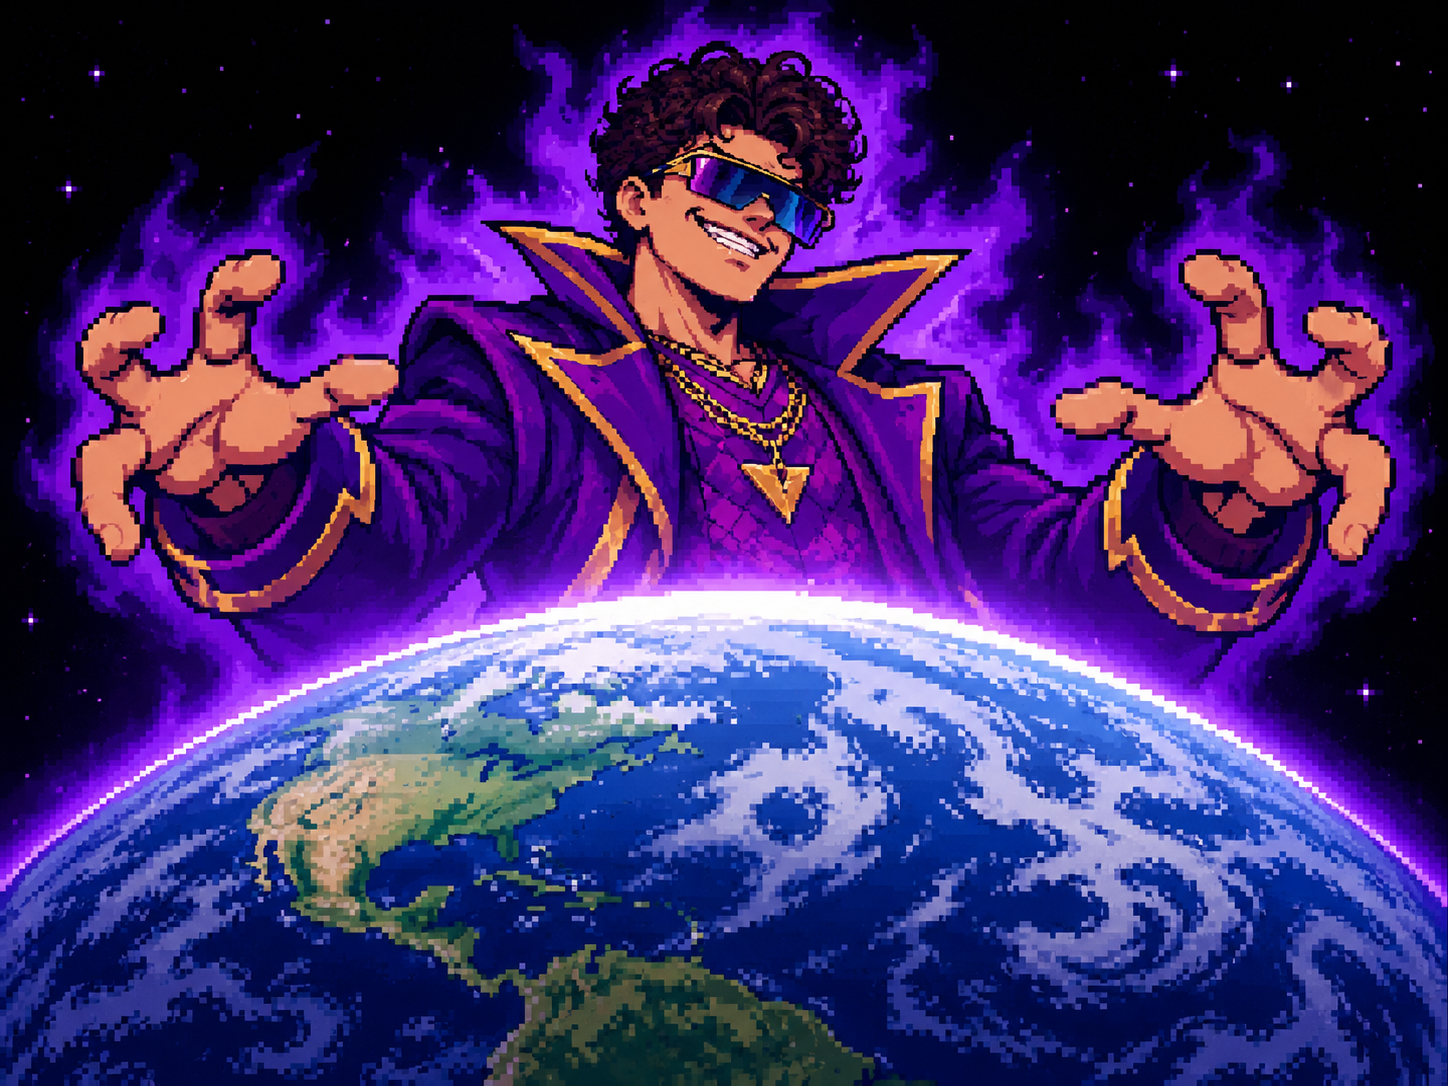
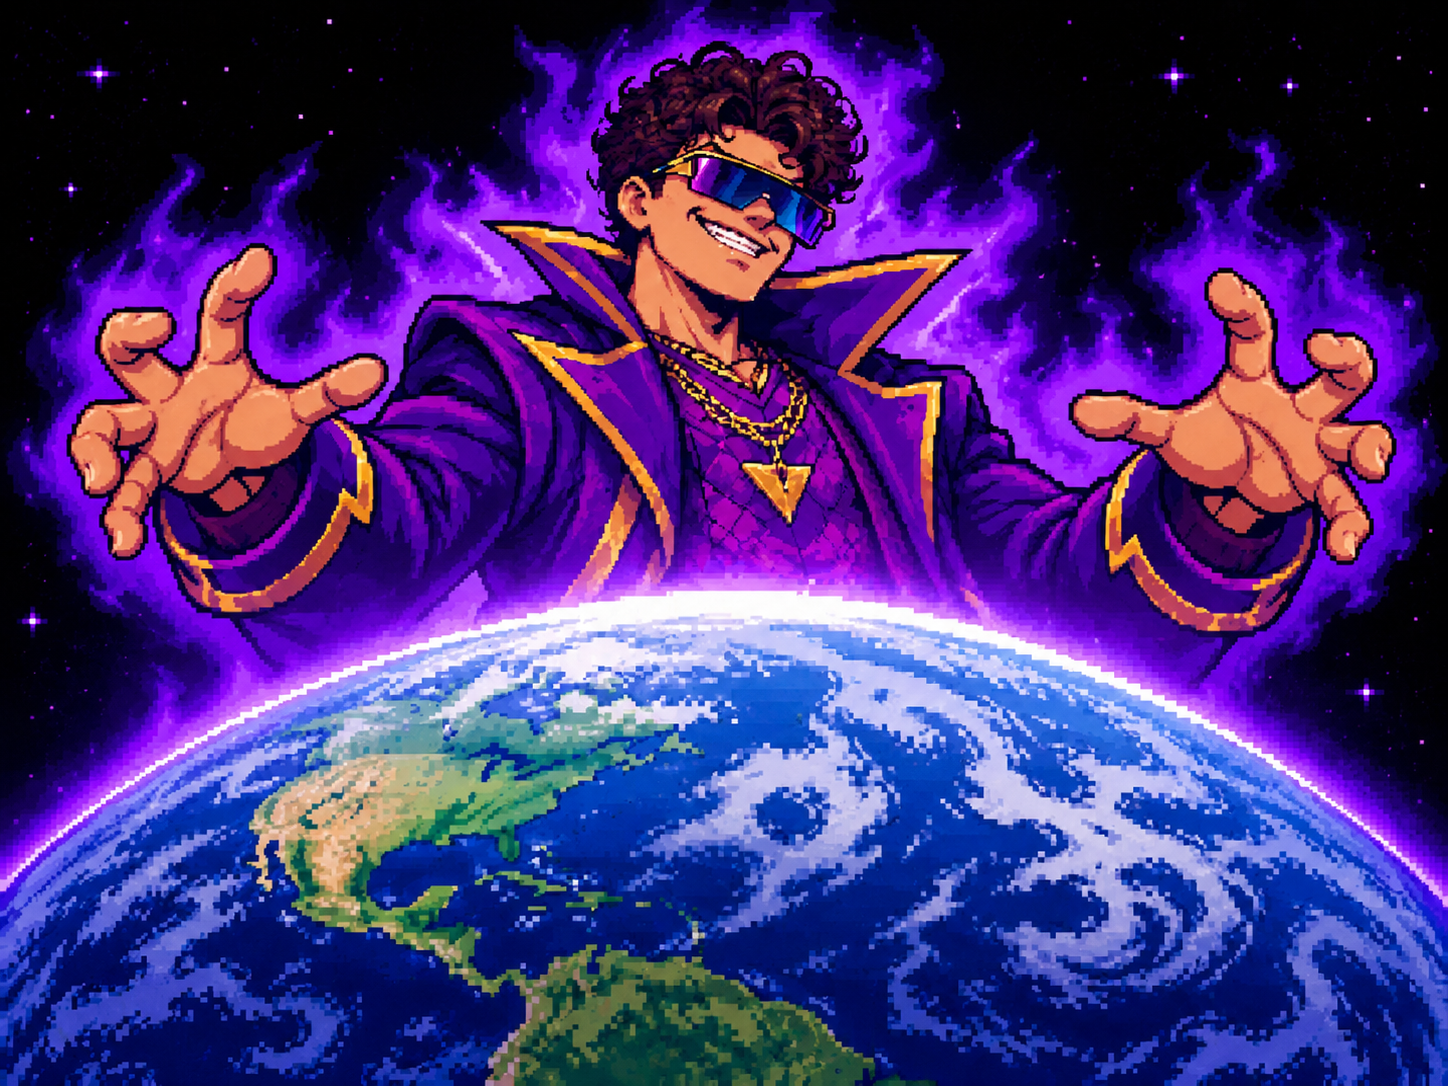
0.10

diff --git a/js/config.js b/js/config.js
@@ -152,9 +152,14 @@ const CONFIG = {
     velocidadeTexto: 45,    // letras por segundo nas cutscenes
     cutsceneInicial: [
       {
-        imagem: 'assets/ui/cena-vitor-terra.png', foco: [0.5, 0.42], zoom: [1.0, 1.08],
+        imagem: 'assets/ui/cena-terra.png', foco: [0.5, 0.42], zoom: [1.0, 1.08],
         falas: [
           { texto: 'Em um mundo onde todos são radicais, todos viviam em paz, até que...' },
+        ]
+      },
+      {
+        imagem: 'assets/ui/cena-vitor-terra.png', foco: [0.5, 0.42], zoom: [1.0, 1.08],
+        falas: [
           { texto: 'Vitor, dono da empresa Crown Corp. decidiu que iria roubar toda show de bolice do mundo para si mesmo...' },
         ],
       },
@@ -172,8 +177,8 @@ const CONFIG = {
       },
     ],
     fases: [
-      { inimigo: 'manu',    arena: 'neon',   cpu: { pausaMin: 0.7, pausaMax: 1.4, chanceDefender: 0.15 } },
-      { inimigo: 'gregory', arena: 'sakura', cpu: { pausaMin: 0.5, pausaMax: 1.1, chanceDefender: 0.35 } },
+      { inimigo: 'manu',    arena: 'sakura',   cpu: { pausaMin: 0.7, pausaMax: 1.4, chanceDefender: 0.15 } },
+      { inimigo: 'gregory', arena: 'neon', cpu: { pausaMin: 0.5, pausaMax: 1.1, chanceDefender: 0.35 } },
       // próxima fase (ainda não feita): { inimigo: 'vitor', arena: 'telhado', cpu: { ... } },
     ],
     textoDerrota: 'A RADICALIDADE DO MUNDO DEPENDE DE VOCÊ!',
